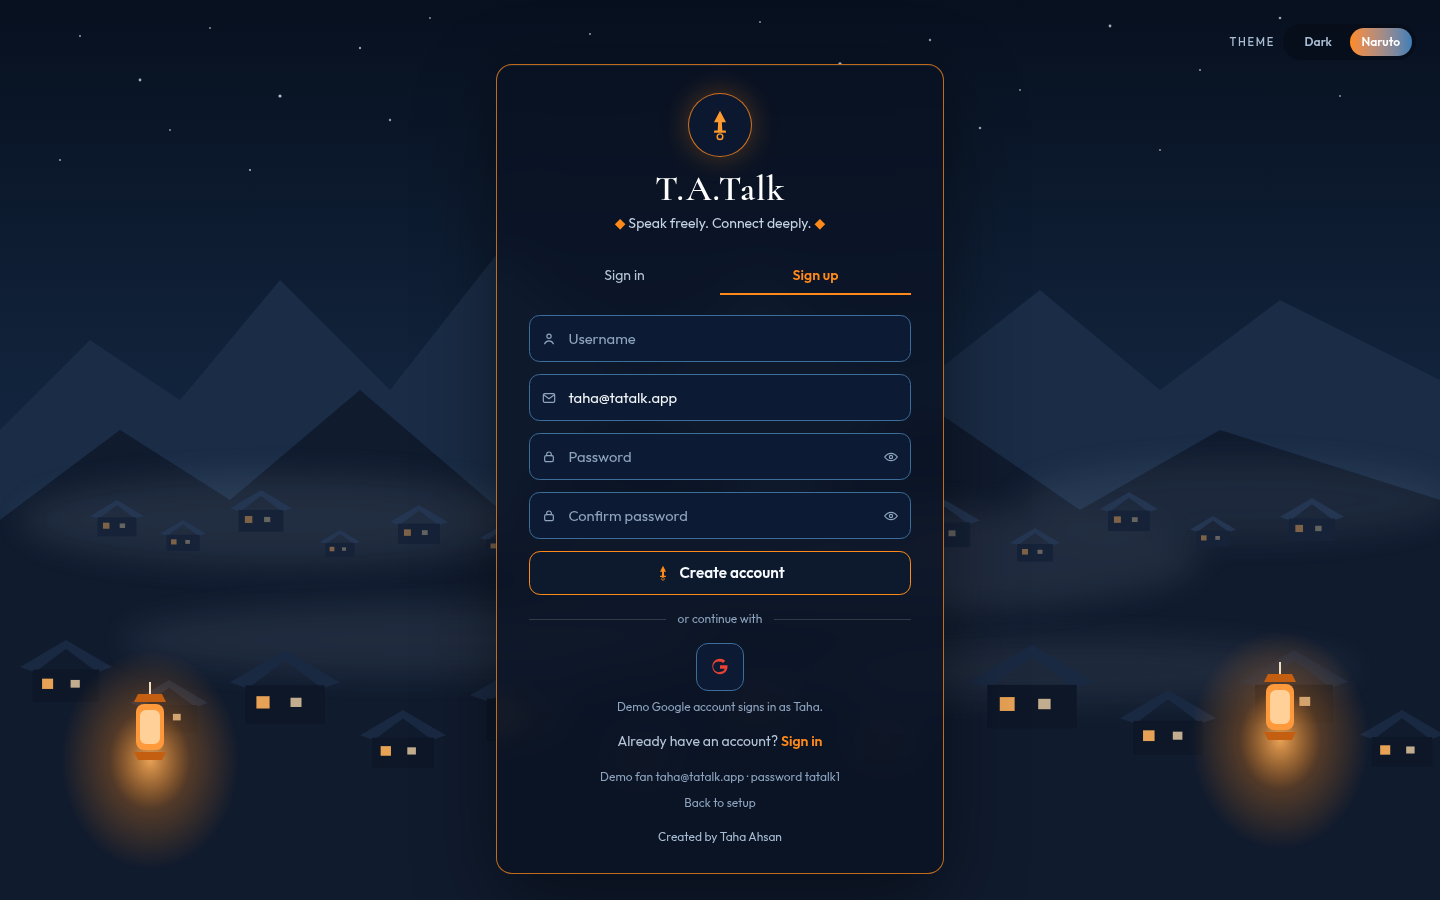
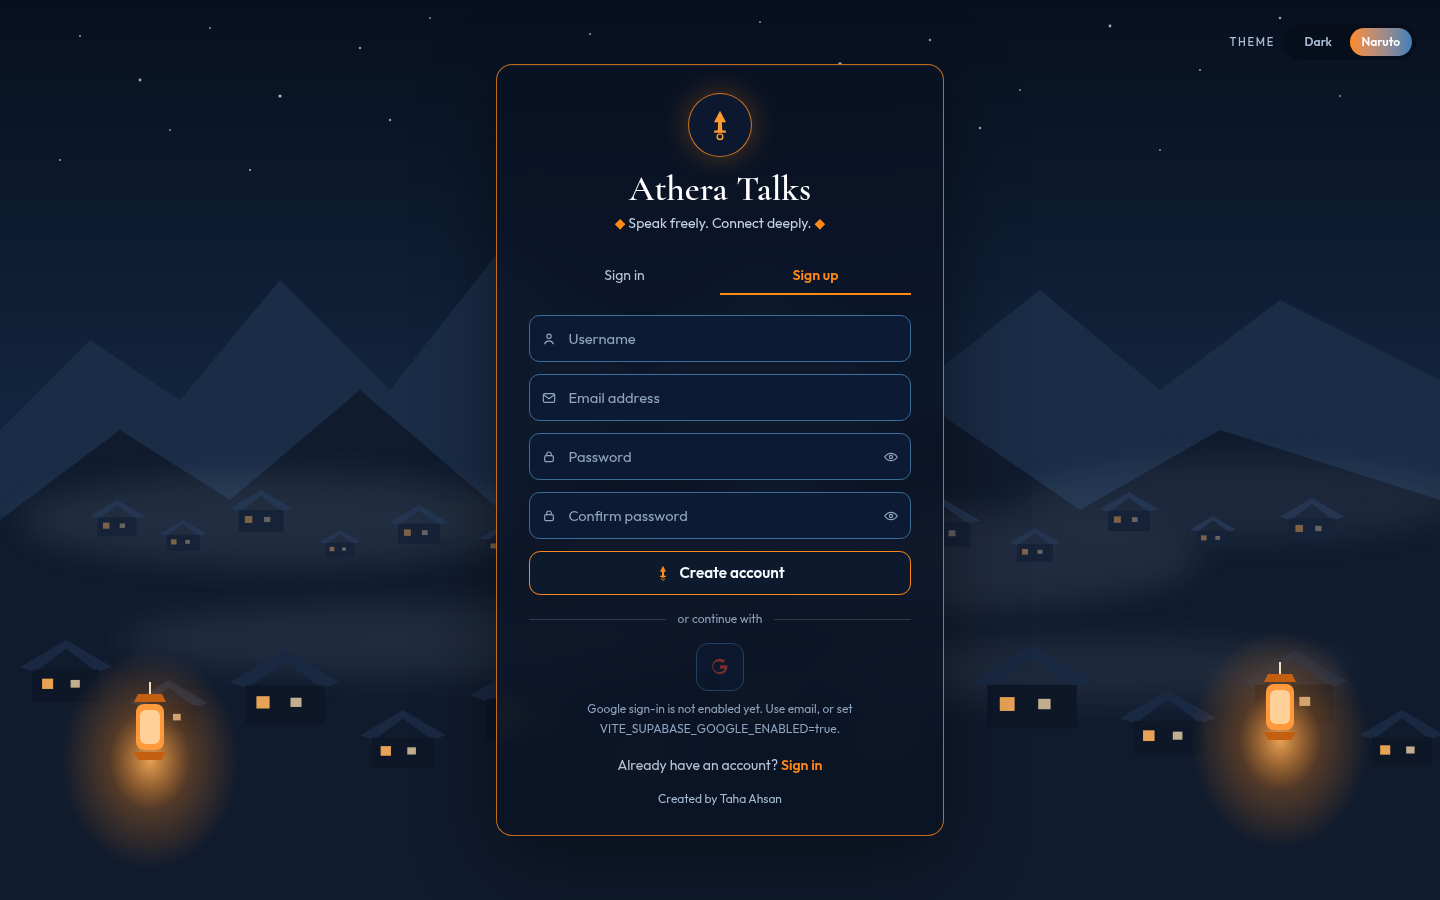
Rename the product to Athera Talks.
User-facing copy, the page title, and the logo now say Athera Talks. The GitHub Pages path stays /ta-talk/, and a configured build opens real sign-in instead of the demo.

Changed region(s): [[0.4062, 0.7778, 0.5938, 0.9333], [0.4375, 0.1867, 0.5625, 0.2178], [0.4062, 0.4356, 0.4688, 0.4667]]

diff --git a/src/pages/AuthScreen.tsx b/src/pages/AuthScreen.tsx
@@ -8,6 +8,7 @@ import { NightShell } from '../components/NightVillage'
 import { ThemeSwitcher } from '../components/ThemeSwitcher'
 import { GoogleIcon } from '../components/Icons'
 import { useSession } from '../context/SessionContext'
+import { APP_NAME } from '../lib/brand'
 import { useTheme } from '../context/ThemeContext'
 import { isValidEmail, normalizeUsername, passwordIssue, usernameIssue } from '../lib/auth'
 import { cn } from '../lib/cn'
@@ -172,7 +173,7 @@ export function AuthScreen({ mode }: { mode: AuthMode }) {
             <span className="mx-auto grid h-16 w-16 place-items-center rounded-full border border-[#ff8a1a]/80 bg-[#0c1830] text-[#ff9a2e] shadow-[0_0_28px_rgba(255,138,26,0.3)]">
               <KunaiMark className="h-8 w-8" />
             </span>
-            <p className="font-display mt-3 text-4xl font-semibold tracking-wide text-white">T.A.Talk</p>
+            <p className="font-display mt-3 text-4xl font-semibold text-white">{APP_NAME}</p>
             <p className="mt-1 text-sm text-[#c5d4e6]">
               <span className="text-[#ff8a1a]">◆</span> Speak freely. Connect deeply.{' '}
               <span className="text-[#ff8a1a]">◆</span>

diff --git a/src/components/SetupScreen.tsx b/src/components/SetupScreen.tsx
@@ -1,4 +1,5 @@
 import { useTheme } from '../context/ThemeContext'
+import { APP_NAME } from '../lib/brand'
 import { useSession } from '../context/SessionContext'
 import { primaryButton } from '../lib/styles'
 import { Brand } from './Brand'
@@ -59,7 +60,7 @@ function NightSetup({ onDemo }: { onDemo: () => void }) {
           <span className="mx-auto grid h-14 w-14 place-items-center rounded-full border border-[#ff8a1a]/80 bg-[#0c1830] text-[#ff9a2e] shadow-[0_0_24px_rgba(255,138,26,0.28)]">
             <KunaiMark className="h-7 w-7" />
           </span>
-          <p className="font-display mt-3 text-4xl font-semibold tracking-wide text-white">T.A.Talk</p>
+          <p className="font-display mt-3 text-4xl font-semibold text-white">{APP_NAME}</p>
           <p className="mt-1 text-sm text-[#c5d4e6]">Connect the village, or walk through the demo.</p>
         </div>
         <h1 className="mt-6 text-center text-2xl font-semibold tracking-tight">Connect Supabase to start talking.</h1>

diff --git a/src/App.tsx b/src/App.tsx
@@ -5,6 +5,7 @@ import { MissingProfile, Shell } from './components/Shell'
 import { SetupScreen, Splash } from './components/SetupScreen'
 import { SessionProvider, useSession } from './context/SessionContext'
 import { ThemeProvider } from './context/ThemeContext'
+import { APP_NAME } from './lib/brand'
 import { routerBasename } from './lib/url'
 import { AuthScreen } from './pages/AuthScreen'
 import { HomePage } from './pages/HomePage'
@@ -66,7 +67,7 @@ class AppErrorBoundary extends Component<{ children: ReactNode }, { message: str
     return (
       <div className="grid min-h-dvh place-items-center px-6 text-center">
         <div>
-          <h1 className="text-xl font-semibold">T.A.Talk hit a snag</h1>
+          <h1 className="text-xl font-semibold">{APP_NAME} hit a snag</h1>
           <p className="mt-2 text-sm text-mist">{this.state.message}</p>
           <button type="button" className="mt-4 text-sm text-sakura" onClick={() => window.location.reload()}>
             Reload

diff --git a/src/context/SessionContext.tsx b/src/context/SessionContext.tsx
@@ -12,6 +12,7 @@ import { useNavigate } from 'react-router-dom'
 import { demoBackend } from '../demo/backend'
 import { googleAuthMode, googleSignInError, normalizeUsername, usernameIssue, type GoogleAuthMode } from '../lib/auth'
 import { readSupabaseEnv } from '../lib/config'
+import { startMode } from '../lib/mode'
 import { blobToDataUrl, squareAvatar } from '../lib/image'
 import { getSupabase } from '../lib/supabase'
 import { appUrl } from '../lib/url'
@@ -49,9 +50,8 @@ type SessionValue = {
 const SessionContext = createContext<SessionValue | null>(null)
 
 function initialMode(configured: boolean): Mode {
-  if (configured) return 'live'
-  if (typeof localStorage !== 'undefined' && localStorage.getItem(DEMO_KEY) === '1') return 'demo'
-  return 'setup'
+  const demoStored = typeof localStorage !== 'undefined' && localStorage.getItem(DEMO_KEY) === '1'
+  return startMode(configured, demoStored)
 }
 
 export function SessionProvider({ children }: { children: ReactNode }) {

diff --git a/src/pages/ResetPasswordPage.tsx b/src/pages/ResetPasswordPage.tsx
@@ -6,6 +6,7 @@ import { Glow } from '../components/SetupScreen'
 import { KunaiMark } from '../components/KunaiMark'
 import { NightShell } from '../components/NightVillage'
 import { useSession } from '../context/SessionContext'
+import { APP_NAME } from '../lib/brand'
 import { useTheme } from '../context/ThemeContext'
 import { passwordIssue } from '../lib/auth'
 import { fieldClass, primaryButton } from '../lib/styles'
@@ -58,7 +59,7 @@ export function ResetPasswordPage() {
             <span className="mx-auto grid h-14 w-14 place-items-center rounded-full border border-[#ff8a1a]/80 bg-[#0c1830] text-[#ff9a2e]">
               <KunaiMark className="h-7 w-7" />
             </span>
-            <p className="font-display mt-3 text-4xl text-white">T.A.Talk</p>
+            <p className="font-display mt-3 text-4xl text-white">{APP_NAME}</p>
           </div>
           <h1 className="mt-6 text-center text-xl font-semibold">Choose a new password</h1>
           {canReset ? (

diff --git a/src/components/Brand.tsx b/src/components/Brand.tsx
@@ -1,4 +1,5 @@
 import { useTheme } from '../context/ThemeContext'
+import { APP_NAME } from '../lib/brand'
 import { cn } from '../lib/cn'
 import { KunaiMark } from './KunaiMark'
 
@@ -12,10 +13,10 @@ export function Brand({ large = false }: { large?: boolean }) {
           large ? 'h-14 w-14 text-lg' : 'h-11 w-11 text-sm',
         )}
       >
-        {theme === 'naruto' ? <KunaiMark className={large ? 'h-8 w-8' : 'h-6 w-6'} /> : 'TA'}
+        {theme === 'naruto' ? <KunaiMark className={large ? 'h-8 w-8' : 'h-6 w-6'} /> : 'AT'}
       </span>
       <div>
-        <p className={cn('font-semibold tracking-tight', large ? 'text-2xl' : 'text-lg')}>T.A.Talk</p>
+        <p className={cn('font-semibold tracking-tight', large ? 'text-2xl' : 'text-lg')}>{APP_NAME}</p>
         <p className="text-xs text-mist">Anime circle chat</p>
       </div>
     </div>

diff --git a/index.html b/index.html
@@ -6,7 +6,7 @@
     <meta name="theme-color" content="#09080f" />
     <meta
       name="description"
-      content="T.A.Talk — real-time chat and voice calls for anime fans. Created by Taha Ahsan."
+      content="Athera Talks — real-time chat and voice calls for anime fans. Created by Taha Ahsan."
     />
     <link rel="icon" type="image/svg+xml" href="%BASE_URL%favicon.svg" />
     <link rel="preconnect" href="https://fonts.googleapis.com" />
@@ -15,7 +15,8 @@
       href="https://fonts.googleapis.com/css2?family=Cormorant+Garamond:wght@600;700&family=Outfit:wght@400;500;600;700&display=swap"
       rel="stylesheet"
     />
-    <title>T.A.Talk</title>
+    <meta name="application-name" content="Athera Talks" />
+    <title>Athera Talks</title>
     <script>
       try {
         var savedTheme = localStorage.getItem('tatalk:theme')

diff --git a/src/components/Sidebar.tsx b/src/components/Sidebar.tsx
@@ -3,6 +3,7 @@ import { Link, useNavigate } from 'react-router-dom'
 import { useCall } from '../context/CallContext'
 import { useChat } from '../context/ChatContext'
 import { useSession } from '../context/SessionContext'
+import { APP_NAME } from '../lib/brand'
 import { cn } from '../lib/cn'
 import { formatListTime } from '../lib/format'
 import { fieldClass } from '../lib/styles'
@@ -53,7 +54,7 @@ export function Sidebar() {
         <div className="flex items-center gap-2">
           {theme === 'naruto' ? <KunaiMark className="h-8 w-8 text-sakura" /> : null}
           <div>
-            <p className="text-lg font-semibold tracking-tight">T.A.Talk</p>
+            <p className="text-lg font-semibold tracking-tight">{APP_NAME}</p>
             <p className="text-xs text-mist">@{profile?.username}</p>
           </div>
         </div>

diff --git a/src/pages/ProfilePage.tsx b/src/pages/ProfilePage.tsx
@@ -7,6 +7,7 @@ import { ThemeSwitcher } from '../components/ThemeSwitcher'
 import { useChat } from '../context/ChatContext'
 import { useSession } from '../context/SessionContext'
 import { usernameIssue } from '../lib/auth'
+import { APP_NAME } from '../lib/brand'
 import { dangerButton, fieldClass, ghostButton, primaryButton } from '../lib/styles'
 
 const SUGGESTIONS = ['Attack on Titan', 'Demon Slayer', 'Jujutsu Kaisen', 'Frieren', 'One Piece', 'Spy x Family']
@@ -159,7 +160,7 @@ export function ProfilePage() {
         </button>
 
         <p className="text-center text-sm leading-6 text-mist">
-          T.A.Talk is a small chat for anime circles.
+          {APP_NAME} is a small chat for anime circles.
         </p>
         <Credit />
       </form>

diff --git a/src/services/signaling.ts b/src/services/signaling.ts
@@ -3,7 +3,7 @@ import { isCallSignal } from '../lib/signal'
 import { getSupabase } from '../lib/supabase'
 import type { CallSignal } from '../types'
 
-// One shared inbox per user. Both people must have T.A.Talk open; signals are not stored.
+// One shared inbox per user. Both people must have Athera Talks open; signals are not stored.
 const outbox = new Map<string, { channel: RealtimeChannel; ready: Promise<void> }>()
 
 export function subscribeSignals(userId: string, onSignal: (signal: CallSignal) => void): () => void {

diff --git a/src/lib/mode.test.ts b/src/lib/mode.test.ts
@@ -1,0 +1,14 @@
+import { describe, expect, it } from 'vitest'
+import { startMode } from './mode'
+
+describe('startMode', () => {
+  it('opens real sign-in when Supabase keys are present, even if a demo flag is stored', () => {
+    expect(startMode(true, true)).toBe('live')
+    expect(startMode(true, false)).toBe('live')
+  })
+
+  it('keeps the sample circle only when keys are missing', () => {
+    expect(startMode(false, true)).toBe('demo')
+    expect(startMode(false, false)).toBe('setup')
+  })
+})

diff --git a/src/lib/mode.ts b/src/lib/mode.ts
@@ -1,0 +1,8 @@
+export type AppMode = 'setup' | 'demo' | 'live'
+
+// Keys win. A stored demo flag must not pull a configured build back to the sample circle.
+export function startMode(configured: boolean, demoStored: boolean): AppMode {
+  if (configured) return 'live'
+  if (demoStored) return 'demo'
+  return 'setup'
+}
